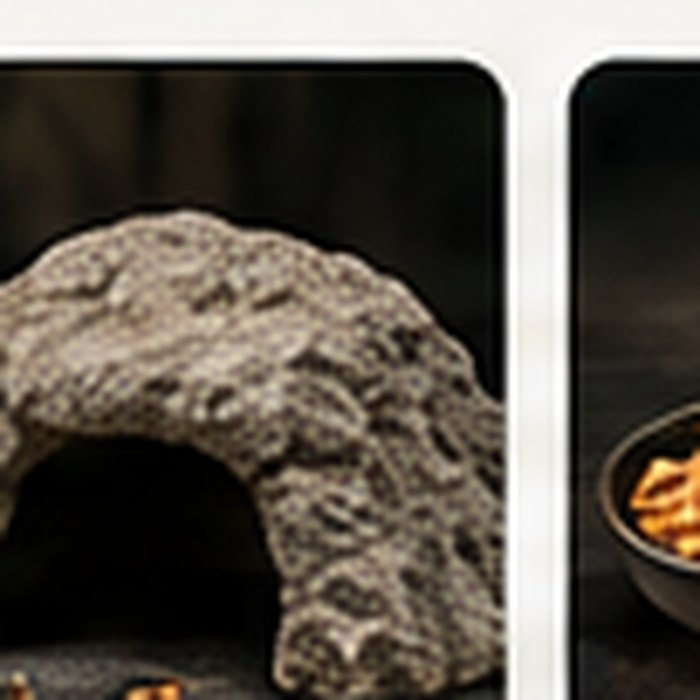
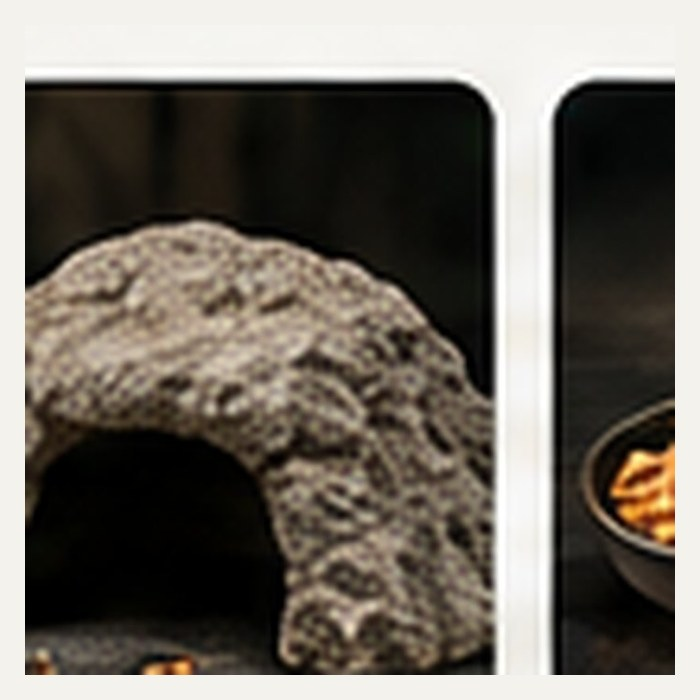
Add files via upload

diff --git a/assets/css/style.css b/assets/css/style.css
@@ -1,1 +1,1 @@
-:root{--bg:#07110d;--panel:#0d1c15;--panel2:#12251b;--cream:#f4f0e7;--muted:#a9b8ad;--green:#8bd44b;--green2:#3c9f45;--gold:#d7aa55;--line:rgba(255,255,255,.1);--shadow:0 20px 60px rgba(0,0,0,.35);--radius:22px}*{box-sizing:border-box}html{scroll-behavior:smooth}body{margin:0;background:#f5f4ef;color:#162019;font-family:Inter,ui-sans-serif,system-ui,-apple-system,Segoe UI,Roboto,Arial,sans-serif}.topbar{background:#06100b;color:#dfe9e1;padding:9px 5%;font-size:12px;display:flex;justify-content:center;gap:24px;letter-spacing:.02em}.topbar span{opacity:.9}.topbar b{color:#a6dc67}.header{position:sticky;top:0;z-index:50;background:rgba(5,15,10,.96);backdrop-filter:blur(12px);color:#fff;border-bottom:1px solid rgba(255,255,255,.08)}.header-main{display:grid;grid-template-columns:210px 1fr auto;gap:28px;align-items:center;padding:18px 5%}.logo{display:flex;align-items:center;gap:12px;color:white;text-decoration:none;font-weight:900;letter-spacing:.12em}.logo img{width:54px;height:54px;border-radius:50%;object-fit:cover}.logo strong{font-size:22px}.logo small{display:block;font-size:8px;letter-spacing:.16em;color:#9bd362;margin-top:2px}.search{max-width:650px;margin:auto;width:100%;position:relative}.search input{width:100%;background:#0c1812;border:1px solid #294033;color:#fff;padding:13px 44px 13px 18px;border-radius:999px;outline:none}.search button{position:absolute;right:6px;top:5px;border:0;background:transparent;color:#d9e7dc;font-size:18px;cursor:pointer}.actions{display:flex;gap:8px}.icon-btn{width:42px;height:42px;border:1px solid #294033;background:#0c1812;color:#fff;border-radius:50%;cursor:pointer}.nav{display:flex;justify-content:center;gap:28px;padding:0 5% 15px}.nav a{color:#dce7df;text-decoration:none;font-size:13px;font-weight:700}.nav a:hover{color:var(--green)}.hero{min-height:650px;background:#07120c;color:white;position:relative;overflow:hidden}.hero:before{content:"";position:absolute;inset:0;background:linear-gradient(90deg,rgba(4,14,8,.96) 0%,rgba(4,14,8,.75) 38%,rgba(4,14,8,.25) 65%,rgba(4,14,8,.72)),url('../images/hero/hero-habitat.jpg') center/cover no-repeat}.hero-content{position:relative;z-index:1;max-width:1250px;margin:auto;padding:125px 5% 90px}.eyebrow{color:#b8e86c;text-transform:uppercase;letter-spacing:.18em;font-weight:800;font-size:12px}.hero h1{font-family:Georgia,serif;font-size:clamp(48px,7vw,88px);line-height:.96;max-width:780px;margin:18px 0}.hero h1 em{color:#9ddd55;font-style:normal}.hero p{max-width:650px;color:#d5ded7;font-size:18px;line-height:1.7}.btn{display:inline-flex;align-items:center;gap:10px;padding:14px 22px;border-radius:999px;text-decoration:none;font-weight:800;border:1px solid transparent;cursor:pointer}.btn-primary{background:linear-gradient(135deg,#a9e05b,#4ca54b);color:#061007}.btn-ghost{border-color:rgba(255,255,255,.25);color:white;background:rgba(255,255,255,.05)}.hero-actions{display:flex;gap:12px;margin-top:28px}.trust{position:relative;z-index:1;max-width:1250px;margin:-40px auto 0;padding:0 5%;display:grid;grid-template-columns:repeat(4,1fr);gap:12px}.trust-card{background:rgba(10,26,17,.92);border:1px solid rgba(255,255,255,.12);color:#fff;padding:18px;border-radius:18px;box-shadow:var(--shadow)}.trust-card b{display:block;font-size:13px}.trust-card span{color:#a9b8ad;font-size:11px}.section{padding:90px 5%;max-width:1400px;margin:auto}.section-head{display:flex;align-items:end;justify-content:space-between;gap:20px;margin-bottom:30px}.section h2{font-family:Georgia,serif;font-size:42px;margin:0}.section-head p{max-width:560px;color:#65736a;line-height:1.6}.category-grid{display:grid;grid-template-columns:repeat(4,1fr);gap:16px}.category{position:relative;min-height:260px;border-radius:22px;overflow:hidden;background:#0c1a12;color:white;box-shadow:var(--shadow)}.category img{width:100%;height:100%;object-fit:cover;transition:.4s}.category:after{content:"";position:absolute;inset:0;background:linear-gradient(transparent 30%,rgba(0,0,0,.85))}.category:hover img{transform:scale(1.05)}.category-info{position:absolute;z-index:2;bottom:20px;left:20px}.category-info h3{margin:0 0 5px;font-size:18px}.category-info span{font-size:12px;color:#c9d6cc}.split-banner{max-width:1400px;margin:0 auto;padding:0 5%}.banner{min-height:360px;border-radius:28px;overflow:hidden;position:relative;background:url('../images/hero/chameleon-habitat.jpg') center/cover}.banner:after{content:"";position:absolute;inset:0;background:linear-gradient(90deg,rgba(5,16,10,.92),rgba(5,16,10,.35),rgba(5,16,10,.15))}.banner-content{position:relative;z-index:2;color:white;max-width:620px;padding:70px}.banner h2{font-family:Georgia,serif;font-size:48px;margin:12px 0}.products{display:grid;grid-template-columns:repeat(4,1fr);gap:18px}.product{background:#fff;border:1px solid #e4e7e1;border-radius:20px;overflow:hidden;box-shadow:0 10px 30px rgba(19,37,26,.06);transition:.25s;position:relative}.product:hover{transform:translateY(-5px);box-shadow:0 18px 45px rgba(19,37,26,.12)}.product-media{height:260px;background:#edf0e9;position:relative}.product-media img{width:100%;height:100%;object-fit:cover}.badge{position:absolute;top:14px;left:14px;background:#0a2516;color:#c8f38d;padding:7px 10px;border-radius:999px;font-size:10px;font-weight:900}.heart{position:absolute;right:14px;top:14px;width:36px;height:36px;border:0;border-radius:50%;background:rgba(255,255,255,.9);cursor:pointer}.product-info{padding:18px}.product-info .category-label{color:#6f7e74;font-size:11px;text-transform:uppercase;letter-spacing:.12em;font-weight:800}.product h3{font-size:17px;margin:7px 0}.rating{font-size:12px;color:#c79537}.price{font-size:20px;font-weight:900;margin-top:10px}.product-actions{display:flex;gap:8px;margin-top:14px}.add{flex:1;border:0;background:#103a21;color:#fff;padding:11px;border-radius:12px;font-weight:800;cursor:pointer}.learn{border:1px solid #d8ded8;background:white;border-radius:12px;padding:11px;cursor:pointer}.about{background:#09150e;color:white;max-width:none}.about-inner{max-width:1400px;margin:auto;padding:90px 5%;display:grid;grid-template-columns:1fr 1fr;gap:70px;align-items:center}.about h2{font-family:Georgia,serif;font-size:52px}.about p{color:#b5c2b9;line-height:1.8}.values{display:grid;grid-template-columns:repeat(3,1fr);gap:12px}.value{padding:20px;border:1px solid #243d2d;background:#0d2115;border-radius:18px}.value b{display:block;margin-bottom:7px}.value span{font-size:12px;color:#a9b8ad;line-height:1.6}.newsletter{background:#dcefc5;padding:55px 5%;text-align:center}.newsletter h2{font-family:Georgia,serif;font-size:38px;margin:0 0 10px}.newsletter p{color:#506253}.newsletter form{max-width:560px;margin:22px auto;display:flex;background:white;padding:5px;border-radius:999px;border:1px solid #cbd9c3}.newsletter input{flex:1;border:0;outline:0;padding:13px 16px;border-radius:999px}.newsletter button{border:0;background:#173b22;color:white;padding:12px 20px;border-radius:999px;font-weight:800}.footer{background:#050c08;color:#d8e2db;padding:55px 5% 25px}.footer-grid{max-width:1400px;margin:auto;display:grid;grid-template-columns:2fr repeat(3,1fr);gap:45px}.footer h3{margin-top:0}.footer a{display:block;color:#9eaea3;text-decoration:none;font-size:13px;margin:9px 0}.footer a:hover{color:#a9df62}.footer-bottom{max-width:1400px;margin:40px auto 0;padding-top:20px;border-top:1px solid #1e3024;color:#78877e;font-size:11px;display:flex;justify-content:space-between}.drawer{position:fixed;right:-430px;top:0;width:min(420px,100%);height:100vh;background:#fff;z-index:100;box-shadow:-20px 0 70px rgba(0,0,0,.3);transition:.3s;display:flex;flex-direction:column}.drawer.open{right:0}.drawer-head{padding:22px;border-bottom:1px solid #e5e8e4;display:flex;justify-content:space-between}.drawer-body{padding:20px;overflow:auto;flex:1}.cart-item{display:grid;grid-template-columns:75px 1fr auto;gap:12px;align-items:center;padding:14px 0;border-bottom:1px solid #e8ebe7}.cart-item img{width:75px;height:75px;object-fit:cover;border-radius:12px;background:#eef1eb}.cart-item h4{margin:0;font-size:13px}.cart-item p{margin:6px 0 0;color:#647268;font-size:12px}.remove{border:0;background:none;color:#a44;cursor:pointer}.drawer-foot{padding:20px;border-top:1px solid #e5e8e4}.total{display:flex;justify-content:space-between;font-size:18px;font-weight:900;margin-bottom:15px}.full{width:100%;justify-content:center}.modal{position:fixed;inset:0;background:rgba(0,0,0,.7);display:none;align-items:center;justify-content:center;z-index:110;padding:20px}.modal.show{display:flex}.modal-card{max-width:920px;width:100%;background:#fff;border-radius:25px;overflow:hidden;display:grid;grid-template-columns:1fr 1fr;position:relative}.modal-card img{width:100%;height:100%;min-height:460px;object-fit:cover}.modal-info{padding:40px}.modal-info h2{font-family:Georgia,serif;font-size:38px;margin:8px 0}.close{position:absolute;right:15px;top:15px;border:0;width:40px;height:40px;border-radius:50%;background:white;cursor:pointer;font-size:20px}.mobile-toggle{display:none}.empty{text-align:center;color:#748178;padding:40px}.toast{position:fixed;bottom:25px;left:50%;transform:translateX(-50%) translateY(30px);background:#0c2114;color:#fff;padding:13px 18px;border-radius:999px;opacity:0;pointer-events:none;transition:.3s;z-index:200}.toast.show{opacity:1;transform:translateX(-50%) translateY(0)}@media(max-width:1000px){.header-main{grid-template-columns:1fr auto}.search{grid-column:1/-1;grid-row:2}.nav{display:none}.mobile-toggle{display:block}.category-grid,.products{grid-template-columns:repeat(2,1fr)}.trust{grid-template-columns:repeat(2,1fr)}.about-inner{grid-template-columns:1fr}.footer-grid{grid-template-columns:1fr 1fr}}@media(max-width:620px){.topbar{gap:8px;font-size:10px;overflow:hidden;white-space:nowrap}.header-main{padding:13px 4%}.logo strong{font-size:17px}.logo img{width:44px;height:44px}.actions .icon-btn:nth-child(2){display:none}.hero{min-height:600px}.hero-content{padding:90px 5% 100px}.hero h1{font-size:50px}.hero p{font-size:15px}.hero-actions{flex-direction:column;align-items:flex-start}.trust{grid-template-columns:1fr;margin-top:-25px}.section{padding:65px 5%}.section h2{font-size:34px}.section-head{display:block}.category-grid,.products{grid-template-columns:1fr}.category{min-height:310px}.banner-content{padding:45px 28px}.banner h2{font-size:38px}.about h2{font-size:40px}.values{grid-template-columns:1fr}.footer-grid{grid-template-columns:1fr}.footer-bottom{display:block}.footer-bottom span{display:block;margin-top:8px}.modal-card{grid-template-columns:1fr}.modal-card img{min-height:280px;max-height:350px}.modal-info{padding:25px}}
+:root{--bg:#07110d;--panel:#0d1c15;--panel2:#12251b;--cream:#f4f0e7;--muted:#a9b8ad;--green:#8bd44b;--green2:#3c9f45;--gold:#d7aa55;--line:rgba(255,255,255,.1);--shadow:0 20px 60px rgba(0,0,0,.35);--radius:22px}*{box-sizing:border-box}html{scroll-behavior:smooth}body{margin:0;background:#f5f4ef;color:#162019;font-family:Inter,ui-sans-serif,system-ui,-apple-system,Segoe UI,Roboto,Arial,sans-serif}.topbar{background:#06100b;color:#dfe9e1;padding:9px 5%;font-size:12px;display:flex;justify-content:center;gap:24px;letter-spacing:.02em}.topbar span{opacity:.9}.topbar b{color:#a6dc67}.header{position:sticky;top:0;z-index:50;background:rgba(5,15,10,.96);backdrop-filter:blur(12px);color:#fff;border-bottom:1px solid rgba(255,255,255,.08)}.header-main{display:grid;grid-template-columns:210px 1fr auto;gap:28px;align-items:center;padding:18px 5%}.logo{display:flex;align-items:center;gap:12px;color:white;text-decoration:none;font-weight:900;letter-spacing:.12em}.logo img{width:54px;height:54px;border-radius:50%;object-fit:cover}.logo strong{font-size:22px}.logo small{display:block;font-size:8px;letter-spacing:.16em;color:#9bd362;margin-top:2px}.search{max-width:650px;margin:auto;width:100%;position:relative}.search input{width:100%;background:#0c1812;border:1px solid #294033;color:#fff;padding:13px 44px 13px 18px;border-radius:999px;outline:none}.search button{position:absolute;right:6px;top:5px;border:0;background:transparent;color:#d9e7dc;font-size:18px;cursor:pointer}.actions{display:flex;gap:8px}.icon-btn{width:42px;height:42px;border:1px solid #294033;background:#0c1812;color:#fff;border-radius:50%;cursor:pointer}.nav{display:flex;justify-content:center;gap:28px;padding:0 5% 15px}.nav a{color:#dce7df;text-decoration:none;font-size:13px;font-weight:700}.nav a:hover{color:var(--green)}.hero{min-height:650px;background:#07120c;color:white;position:relative;overflow:hidden}.hero:before{content:"";position:absolute;inset:0;background:linear-gradient(90deg,rgba(4,14,8,.96) 0%,rgba(4,14,8,.75) 38%,rgba(4,14,8,.25) 65%,rgba(4,14,8,.72)),url('../images/hero/hero-habitat.jpg') center/cover no-repeat}.hero-content{position:relative;z-index:1;max-width:1250px;margin:auto;padding:125px 5% 90px}.eyebrow{color:#b8e86c;text-transform:uppercase;letter-spacing:.18em;font-weight:800;font-size:12px}.hero h1{font-family:Georgia,serif;font-size:clamp(48px,7vw,88px);line-height:.96;max-width:780px;margin:18px 0}.hero h1 em{color:#9ddd55;font-style:normal}.hero p{max-width:650px;color:#d5ded7;font-size:18px;line-height:1.7}.btn{display:inline-flex;align-items:center;gap:10px;padding:14px 22px;border-radius:999px;text-decoration:none;font-weight:800;border:1px solid transparent;cursor:pointer}.btn-primary{background:linear-gradient(135deg,#a9e05b,#4ca54b);color:#061007}.btn-ghost{border-color:rgba(255,255,255,.25);color:white;background:rgba(255,255,255,.05)}.hero-actions{display:flex;gap:12px;margin-top:28px}.trust{position:relative;z-index:1;max-width:1250px;margin:-40px auto 0;padding:0 5%;display:grid;grid-template-columns:repeat(4,1fr);gap:12px}.trust-card{background:rgba(10,26,17,.92);border:1px solid rgba(255,255,255,.12);color:#fff;padding:18px;border-radius:18px;box-shadow:var(--shadow)}.trust-card b{display:block;font-size:13px}.trust-card span{color:#a9b8ad;font-size:11px}.section{padding:90px 5%;max-width:1400px;margin:auto}.section-head{display:flex;align-items:end;justify-content:space-between;gap:20px;margin-bottom:30px}.section h2{font-family:Georgia,serif;font-size:42px;margin:0}.section-head p{max-width:560px;color:#65736a;line-height:1.6}.category-grid{display:grid;grid-template-columns:repeat(4,1fr);gap:16px}.category{position:relative;aspect-ratio:1/1;min-height:0;border-radius:22px;overflow:hidden;background:#0c1a12;color:white;box-shadow:var(--shadow)}.category img{width:100%;height:100%;object-fit:cover;object-position:center;transition:.4s;display:block}.category:after{content:"";position:absolute;inset:0;background:linear-gradient(transparent 30%,rgba(0,0,0,.85))}.category:hover img{transform:scale(1.05)}.category-info{position:absolute;z-index:2;bottom:20px;left:20px}.category-info h3{margin:0 0 5px;font-size:18px}.category-info span{font-size:12px;color:#c9d6cc}.split-banner{max-width:1400px;margin:0 auto;padding:0 5%}.banner{min-height:360px;border-radius:28px;overflow:hidden;position:relative;background:url('../images/hero/chameleon-habitat.jpg') center/cover}.banner:after{content:"";position:absolute;inset:0;background:linear-gradient(90deg,rgba(5,16,10,.92),rgba(5,16,10,.35),rgba(5,16,10,.15))}.banner-content{position:relative;z-index:2;color:white;max-width:620px;padding:70px}.banner h2{font-family:Georgia,serif;font-size:48px;margin:12px 0}.products{display:grid;grid-template-columns:repeat(4,1fr);gap:18px}.product{background:#fff;border:1px solid #e4e7e1;border-radius:20px;overflow:hidden;box-shadow:0 10px 30px rgba(19,37,26,.06);transition:.25s;position:relative}.product:hover{transform:translateY(-5px);box-shadow:0 18px 45px rgba(19,37,26,.12)}.product-media{aspect-ratio:1/1;height:auto;background:#f4f2ec;position:relative;padding:10px}.product-media img{width:100%;height:100%;object-fit:contain;display:block;border-radius:12px}.badge{position:absolute;top:14px;left:14px;background:#0a2516;color:#c8f38d;padding:7px 10px;border-radius:999px;font-size:10px;font-weight:900}.heart{position:absolute;right:14px;top:14px;width:36px;height:36px;border:0;border-radius:50%;background:rgba(255,255,255,.9);cursor:pointer}.product-info{padding:18px}.product-info .category-label{color:#6f7e74;font-size:11px;text-transform:uppercase;letter-spacing:.12em;font-weight:800}.product h3{font-size:17px;margin:7px 0}.rating{font-size:12px;color:#c79537}.price{font-size:20px;font-weight:900;margin-top:10px}.product-actions{display:flex;gap:8px;margin-top:14px}.add{flex:1;border:0;background:#103a21;color:#fff;padding:11px;border-radius:12px;font-weight:800;cursor:pointer}.learn{border:1px solid #d8ded8;background:white;border-radius:12px;padding:11px;cursor:pointer}.about{background:#09150e;color:white;max-width:none}.about-inner{max-width:1400px;margin:auto;padding:90px 5%;display:grid;grid-template-columns:1fr 1fr;gap:70px;align-items:center}.about h2{font-family:Georgia,serif;font-size:52px}.about p{color:#b5c2b9;line-height:1.8}.values{display:grid;grid-template-columns:repeat(3,1fr);gap:12px}.value{padding:20px;border:1px solid #243d2d;background:#0d2115;border-radius:18px}.value b{display:block;margin-bottom:7px}.value span{font-size:12px;color:#a9b8ad;line-height:1.6}.newsletter{background:#dcefc5;padding:55px 5%;text-align:center}.newsletter h2{font-family:Georgia,serif;font-size:38px;margin:0 0 10px}.newsletter p{color:#506253}.newsletter form{max-width:560px;margin:22px auto;display:flex;background:white;padding:5px;border-radius:999px;border:1px solid #cbd9c3}.newsletter input{flex:1;border:0;outline:0;padding:13px 16px;border-radius:999px}.newsletter button{border:0;background:#173b22;color:white;padding:12px 20px;border-radius:999px;font-weight:800}.footer{background:#050c08;color:#d8e2db;padding:55px 5% 25px}.footer-grid{max-width:1400px;margin:auto;display:grid;grid-template-columns:2fr repeat(3,1fr);gap:45px}.footer h3{margin-top:0}.footer a{display:block;color:#9eaea3;text-decoration:none;font-size:13px;margin:9px 0}.footer a:hover{color:#a9df62}.footer-bottom{max-width:1400px;margin:40px auto 0;padding-top:20px;border-top:1px solid #1e3024;color:#78877e;font-size:11px;display:flex;justify-content:space-between}.drawer{position:fixed;right:-430px;top:0;width:min(420px,100%);height:100vh;background:#fff;z-index:100;box-shadow:-20px 0 70px rgba(0,0,0,.3);transition:.3s;display:flex;flex-direction:column}.drawer.open{right:0}.drawer-head{padding:22px;border-bottom:1px solid #e5e8e4;display:flex;justify-content:space-between}.drawer-body{padding:20px;overflow:auto;flex:1}.cart-item{display:grid;grid-template-columns:75px 1fr auto;gap:12px;align-items:center;padding:14px 0;border-bottom:1px solid #e8ebe7}.cart-item img{width:75px;height:75px;object-fit:contain;border-radius:12px;background:#eef1eb}.cart-item h4{margin:0;font-size:13px}.cart-item p{margin:6px 0 0;color:#647268;font-size:12px}.remove{border:0;background:none;color:#a44;cursor:pointer}.drawer-foot{padding:20px;border-top:1px solid #e5e8e4}.total{display:flex;justify-content:space-between;font-size:18px;font-weight:900;margin-bottom:15px}.full{width:100%;justify-content:center}.modal{position:fixed;inset:0;background:rgba(0,0,0,.7);display:none;align-items:center;justify-content:center;z-index:110;padding:20px}.modal.show{display:flex}.modal-card{max-width:920px;width:100%;background:#fff;border-radius:25px;overflow:hidden;display:grid;grid-template-columns:1fr 1fr;position:relative}.modal-card img{width:100%;height:100%;min-height:460px;object-fit:contain;background:#f4f2ec;padding:18px}.modal-info{padding:40px}.modal-info h2{font-family:Georgia,serif;font-size:38px;margin:8px 0}.close{position:absolute;right:15px;top:15px;border:0;width:40px;height:40px;border-radius:50%;background:white;cursor:pointer;font-size:20px}.mobile-toggle{display:none}.empty{text-align:center;color:#748178;padding:40px}.toast{position:fixed;bottom:25px;left:50%;transform:translateX(-50%) translateY(30px);background:#0c2114;color:#fff;padding:13px 18px;border-radius:999px;opacity:0;pointer-events:none;transition:.3s;z-index:200}.toast.show{opacity:1;transform:translateX(-50%) translateY(0)}@media(max-width:1000px){.header-main{grid-template-columns:1fr auto}.search{grid-column:1/-1;grid-row:2}.nav{display:none}.mobile-toggle{display:block}.category-grid,.products{grid-template-columns:repeat(2,1fr)}.trust{grid-template-columns:repeat(2,1fr)}.about-inner{grid-template-columns:1fr}.footer-grid{grid-template-columns:1fr 1fr}}@media(max-width:620px){.topbar{gap:8px;font-size:10px;overflow:hidden;white-space:nowrap}.header-main{padding:13px 4%}.logo strong{font-size:17px}.logo img{width:44px;height:44px}.actions .icon-btn:nth-child(2){display:none}.hero{min-height:600px}.hero-content{padding:90px 5% 100px}.hero h1{font-size:50px}.hero p{font-size:15px}.hero-actions{flex-direction:column;align-items:flex-start}.trust{grid-template-columns:1fr;margin-top:-25px}.section{padding:65px 5%}.section h2{font-size:34px}.section-head{display:block}.category-grid,.products{grid-template-columns:1fr}.category{min-height:310px}.banner-content{padding:45px 28px}.banner h2{font-size:38px}.about h2{font-size:40px}.values{grid-template-columns:1fr}.footer-grid{grid-template-columns:1fr}.footer-bottom{display:block}.footer-bottom span{display:block;margin-top:8px}.modal-card{grid-template-columns:1fr}.modal-card img{min-height:280px;max-height:350px}.modal-info{padding:25px}}
